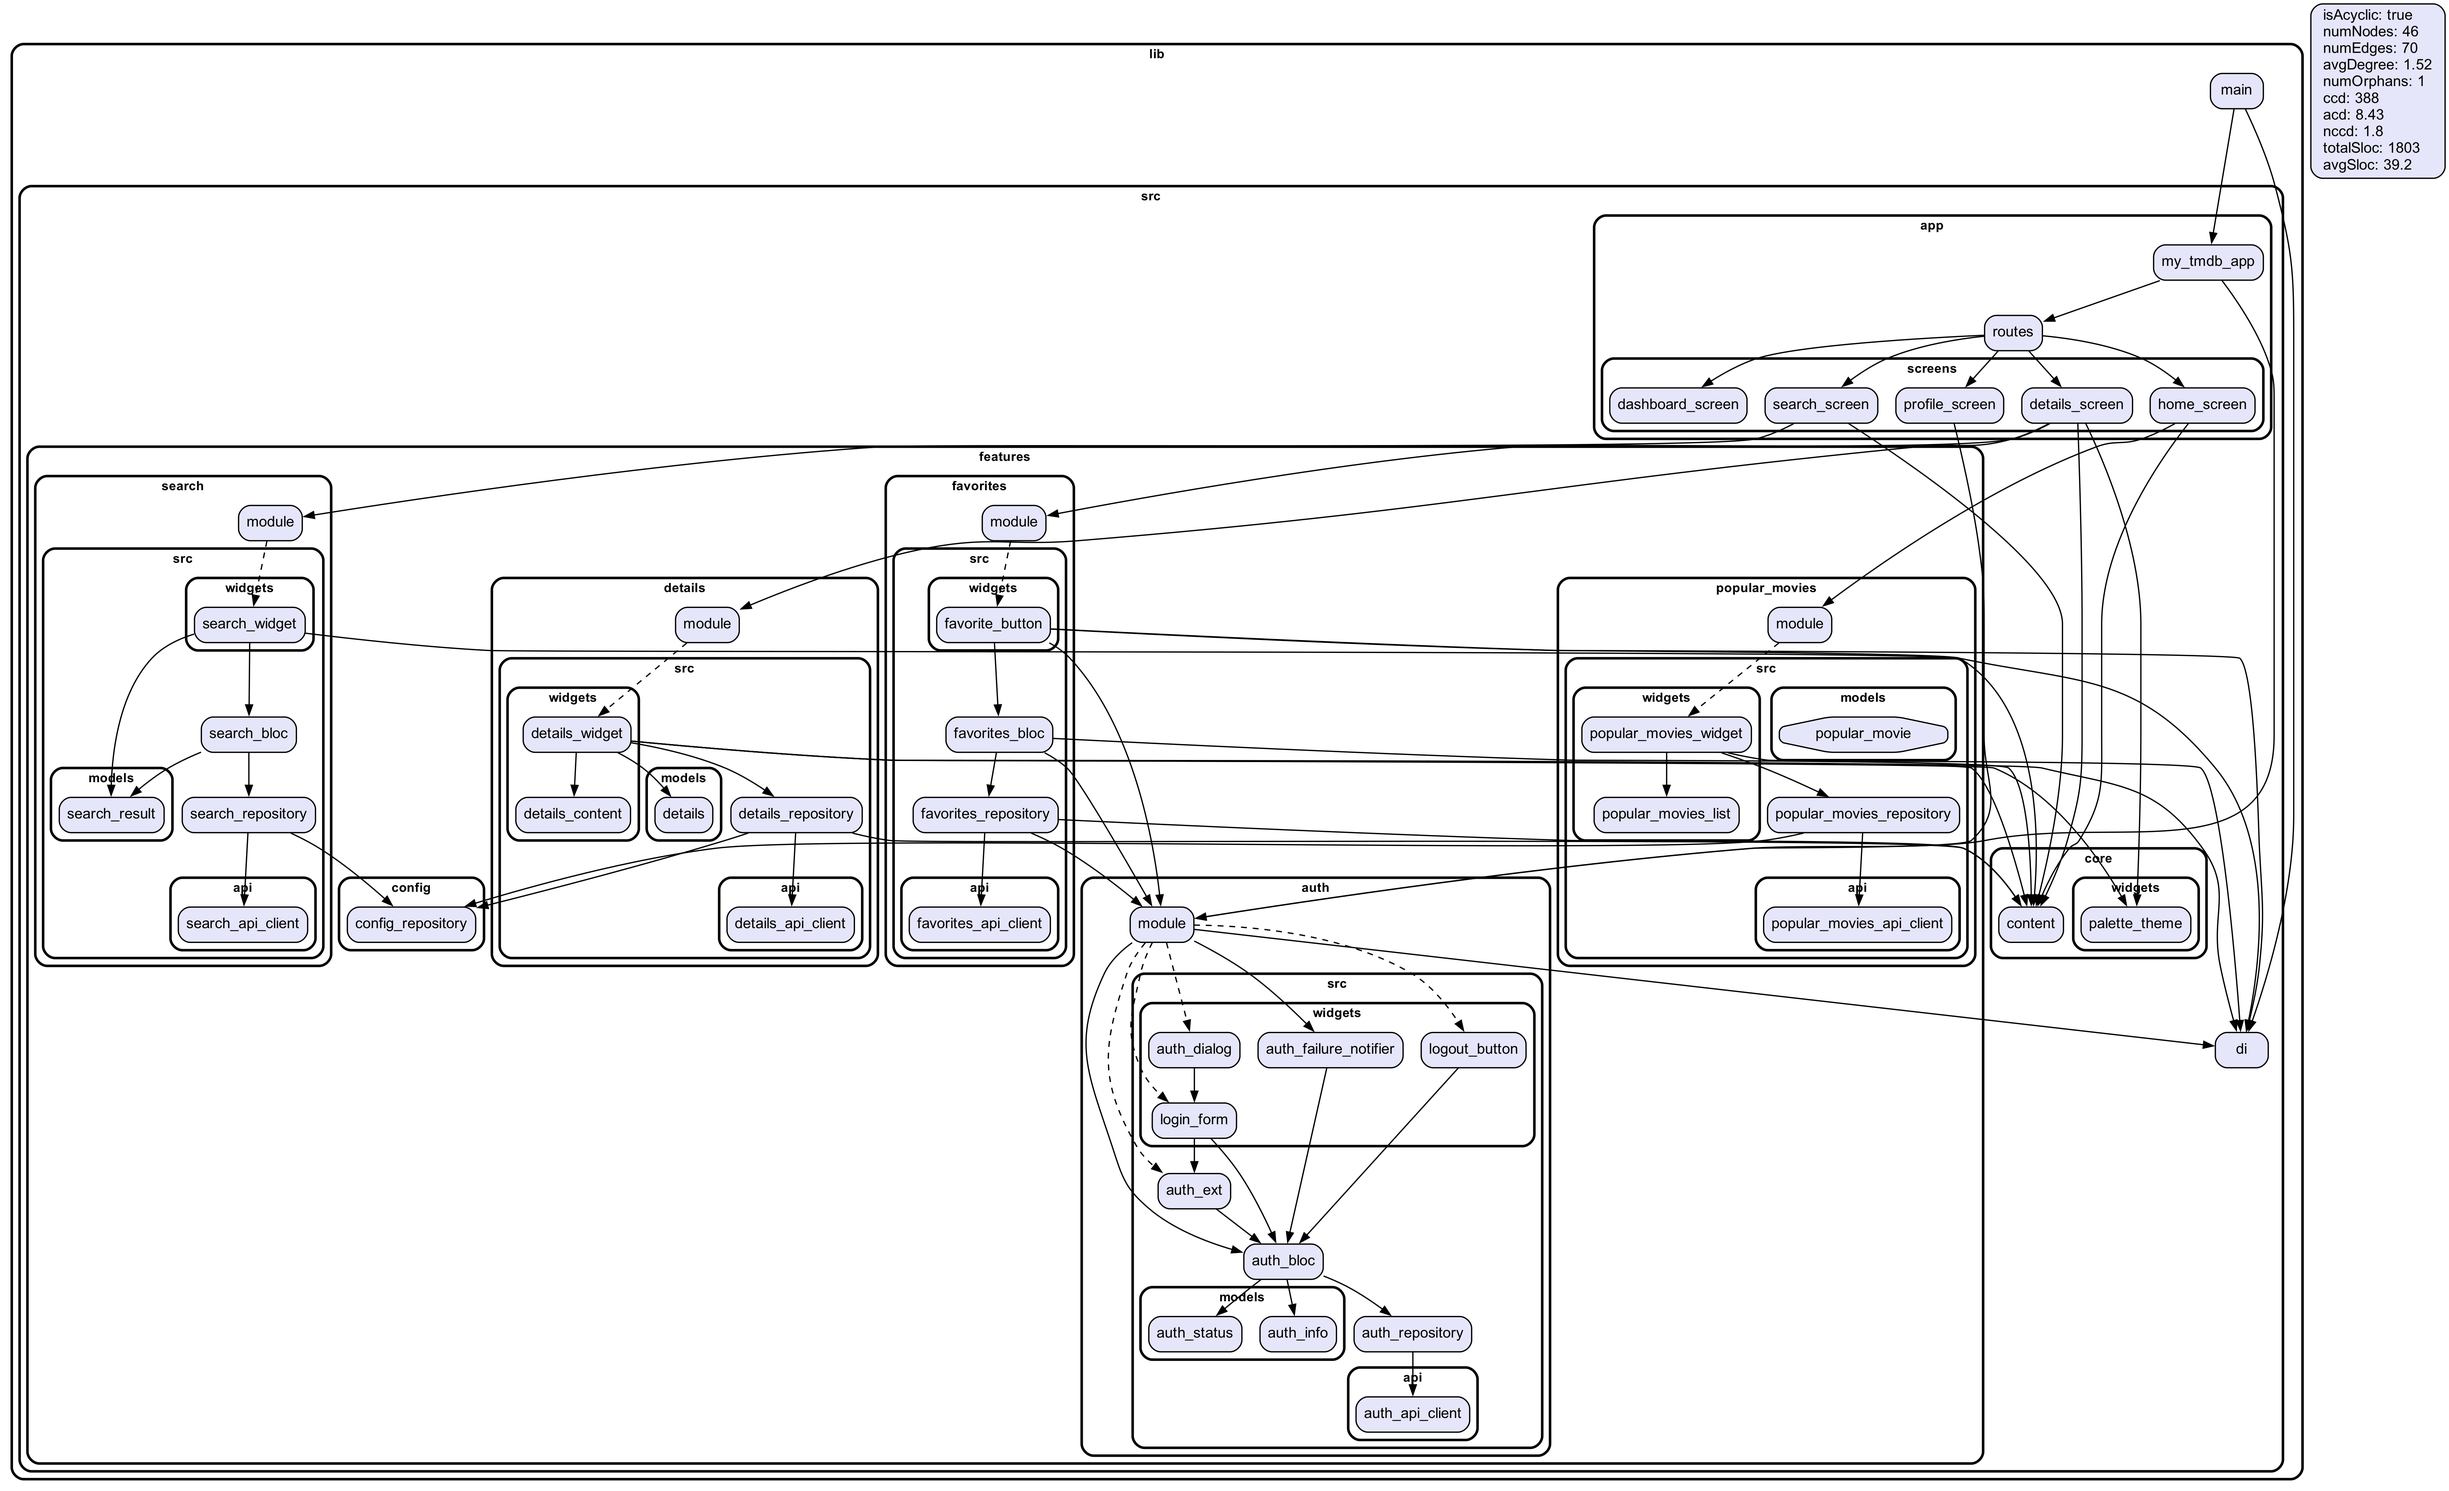
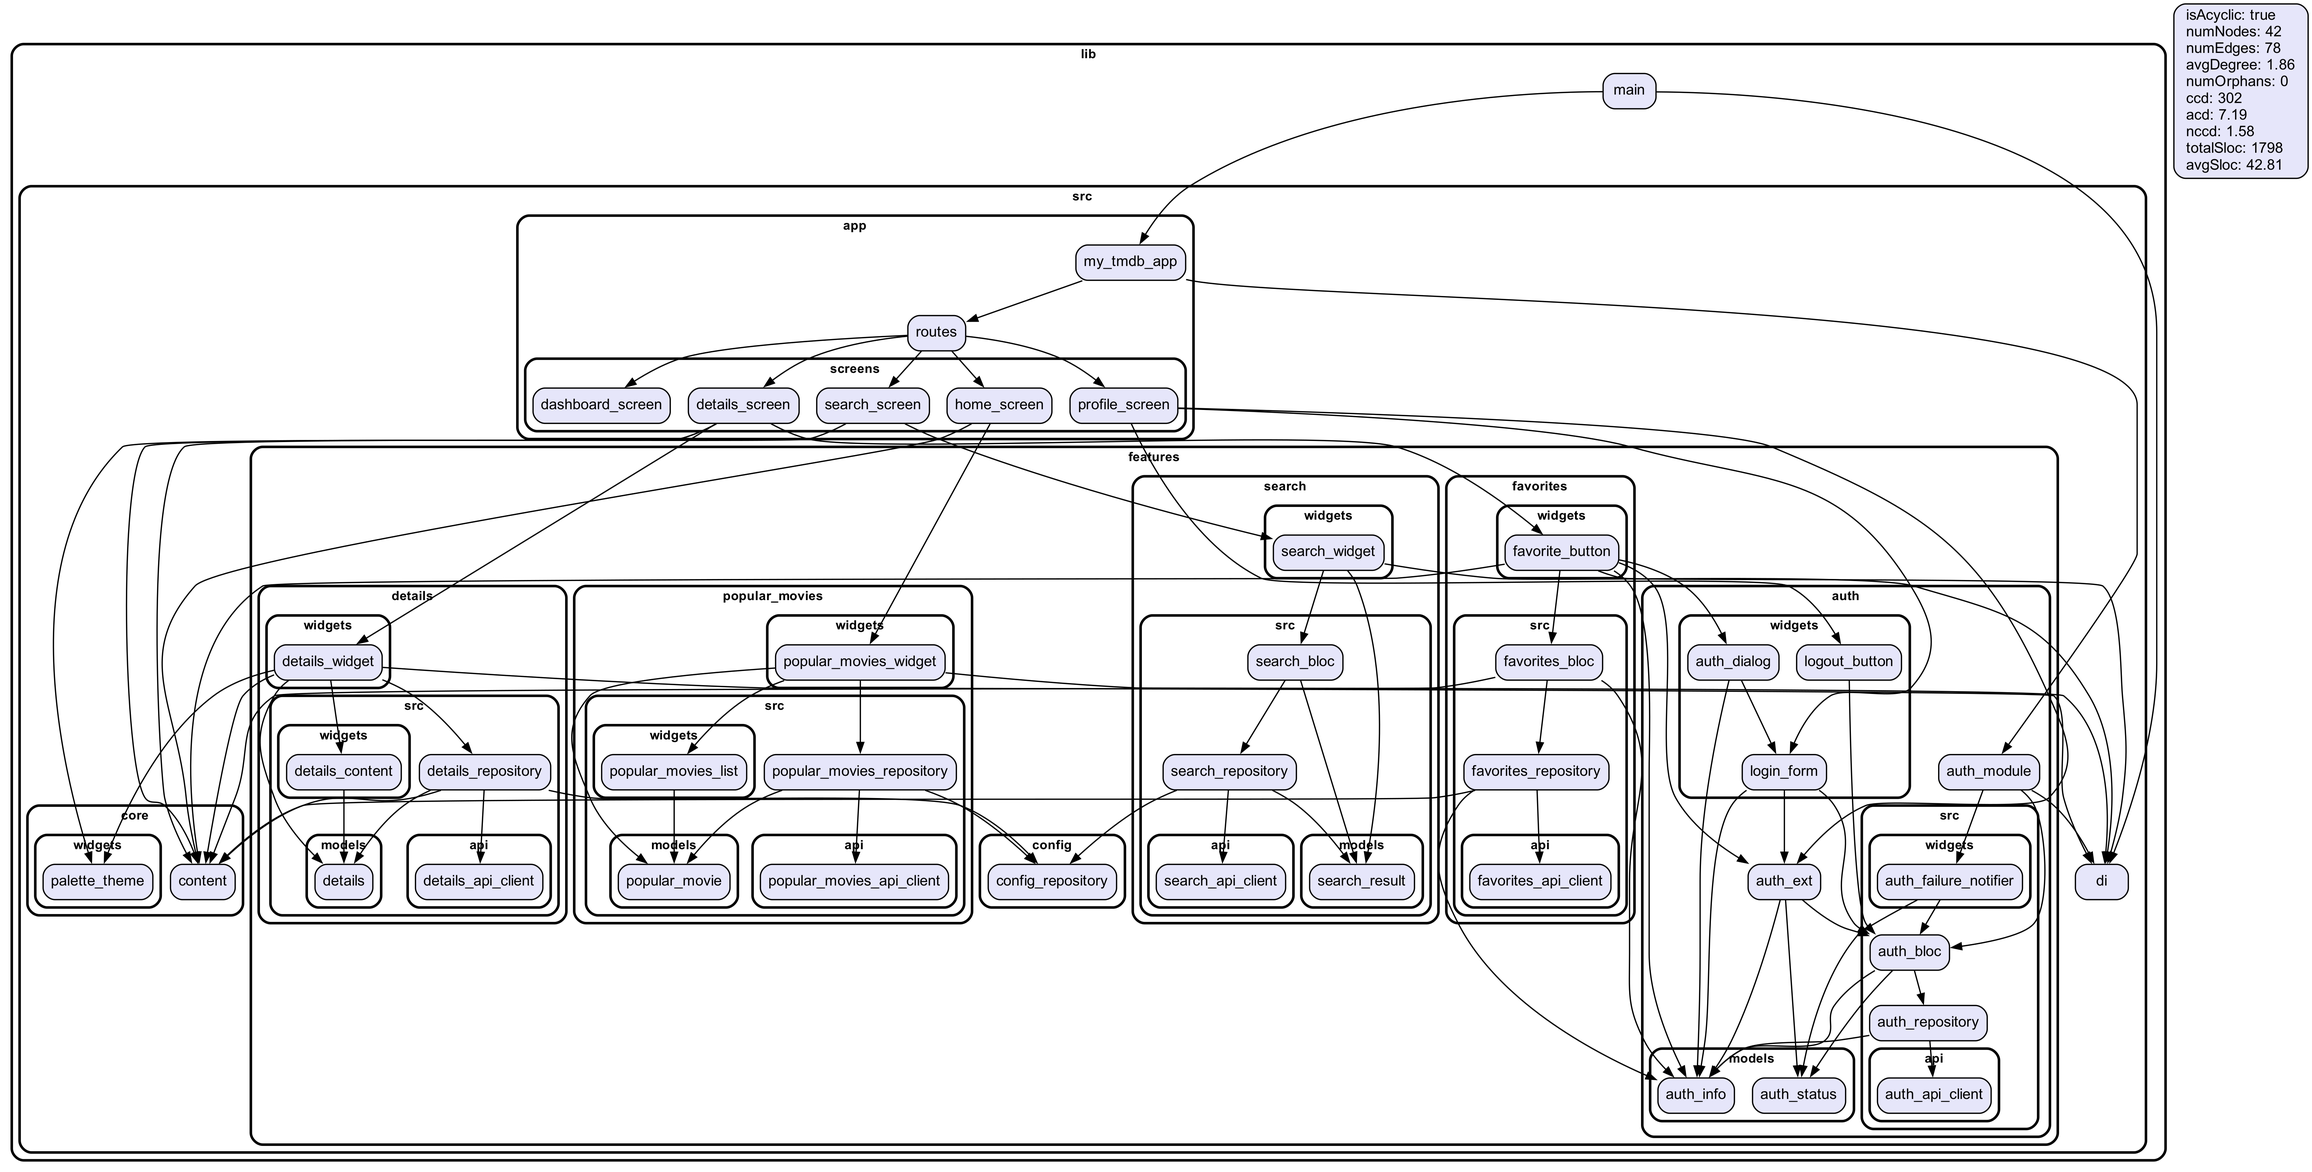
refactor: update structure

diff --git a/lib/src/features/details/widgets/details_widget.dart b/lib/src/features/details/widgets/details_widget.dart
@@ -2,12 +2,12 @@ import 'package:dfunc/dfunc.dart';
 import 'package:flutter/material.dart';
 import 'package:provider/provider.dart';
 
-import '../../../../core/content.dart';
-import '../../../../core/widgets/palette_theme.dart';
-import '../../../../di.dart';
-import '../details_repository.dart';
-import '../models/details.dart';
-import 'details_content.dart';
+import '../../../core/content.dart';
+import '../../../core/widgets/palette_theme.dart';
+import '../../../di.dart';
+import '../src/details_repository.dart';
+import '../src/models/details.dart';
+import '../src/widgets/details_content.dart';
 
 class DetailsWidget extends StatefulWidget {
   const DetailsWidget({

diff --git a/lib/src/features/favorites/widgets/favorite_button.dart b/lib/src/features/favorites/widgets/favorite_button.dart
@@ -1,10 +1,12 @@
 import 'package:flutter/material.dart';
 import 'package:flutter_bloc/flutter_bloc.dart';
 
-import '../../../../core/content.dart';
-import '../../../../di.dart';
-import '../../../auth/module.dart';
-import '../favorites_bloc.dart';
+import '../../../core/content.dart';
+import '../../../di.dart';
+import '../../auth/auth_ext.dart';
+import '../../auth/models/auth_info.dart';
+import '../../auth/widgets/auth_dialog.dart';
+import '../src/favorites_bloc.dart';
 
 class FavoriteButton extends StatelessWidget {
   const FavoriteButton({super.key, required this.contentId});

diff --git a/lib/src/features/popular_movies/widgets/popular_movies_widget.dart b/lib/src/features/popular_movies/widgets/popular_movies_widget.dart
@@ -2,10 +2,10 @@ import 'package:dfunc/dfunc.dart';
 import 'package:fast_immutable_collections/fast_immutable_collections.dart';
 import 'package:flutter/material.dart';
 
-import '../../../../di.dart';
-import '../models/popular_movie.dart';
-import '../popular_movies_repository.dart';
-import 'popular_movies_list.dart';
+import '../../../di.dart';
+import '../src/models/popular_movie.dart';
+import '../src/popular_movies_repository.dart';
+import '../src/widgets/popular_movies_list.dart';
 
 class PopularMoviesWidget extends StatefulWidget {
   const PopularMoviesWidget({

diff --git a/test/features/popular_movies/popular_movies_widget_test.dart b/test/features/popular_movies/popular_movies_widget_test.dart
@@ -8,7 +8,7 @@ import 'package:mockito/annotations.dart';
 import 'package:mockito/mockito.dart';
 import 'package:my_tmdb/src/features/popular_movies/src/models/popular_movie.dart';
 import 'package:my_tmdb/src/features/popular_movies/src/popular_movies_repository.dart';
-import 'package:my_tmdb/src/features/popular_movies/src/widgets/popular_movies_widget.dart';
+import 'package:my_tmdb/src/features/popular_movies/widgets/popular_movies_widget.dart';
 
 import '../../di.dart';
 import 'popular_movies_widget_test.mocks.dart';

diff --git a/test/features/favorites/favorites_bloc_test.dart b/test/features/favorites/favorites_bloc_test.dart
@@ -4,7 +4,7 @@ import 'package:flutter_test/flutter_test.dart';
 import 'package:mockito/annotations.dart';
 import 'package:mockito/mockito.dart';
 import 'package:my_tmdb/src/core/content.dart';
-import 'package:my_tmdb/src/features/auth/module.dart';
+import 'package:my_tmdb/src/features/auth/models/auth_info.dart';
 import 'package:my_tmdb/src/features/favorites/src/favorites_bloc.dart';
 import 'package:my_tmdb/src/features/favorites/src/favorites_repository.dart';
 

diff --git a/lib/src/features/search/widgets/search_widget.dart b/lib/src/features/search/widgets/search_widget.dart
@@ -4,9 +4,9 @@ import 'package:flutter/material.dart';
 import 'package:flutter_bloc/flutter_bloc.dart';
 import 'package:provider/provider.dart';
 
-import '../../../../di.dart';
-import '../models/search_result.dart';
-import '../search_bloc.dart';
+import '../../../di.dart';
+import '../src/models/search_result.dart';
+import '../src/search_bloc.dart';
 
 class SearchWidget extends StatefulWidget {
   const SearchWidget({super.key, required this.onItemPressed});

diff --git a/lib/src/app/screens/details_screen.dart b/lib/src/app/screens/details_screen.dart
@@ -2,8 +2,8 @@ import 'package:flutter/material.dart';
 
 import '../../core/content.dart';
 import '../../core/widgets/palette_theme.dart';
-import '../../features/details/module.dart';
-import '../../features/favorites/module.dart';
+import '../../features/details/widgets/details_widget.dart';
+import '../../features/favorites/widgets/favorite_button.dart';
 
 class DetailsScreen extends StatelessWidget {
   const DetailsScreen({

diff --git a/test/features/favorites/favorites_bloc_test.mocks.dart b/test/features/favorites/favorites_bloc_test.mocks.dart
@@ -8,7 +8,7 @@ import 'dart:async' as _i4;
 import 'package:dfunc/dfunc.dart' as _i2;
 import 'package:mockito/mockito.dart' as _i1;
 import 'package:my_tmdb/src/core/content.dart' as _i5;
-import 'package:my_tmdb/src/features/auth/module.dart' as _i6;
+import 'package:my_tmdb/src/features/auth/models/auth_info.dart' as _i6;
 import 'package:my_tmdb/src/features/favorites/src/favorites_repository.dart'
     as _i3;
 

diff --git a/lib/src/features/auth/auth_module.dart b/lib/src/features/auth/auth_module.dart
@@ -7,12 +7,6 @@ import '../../di.dart';
 import 'src/auth_bloc.dart';
 import 'src/widgets/auth_failure_notifier.dart';
 
-export 'src/auth_ext.dart';
-export 'src/models/auth_info.dart';
-export 'src/widgets/auth_dialog.dart';
-export 'src/widgets/login_form.dart';
-export 'src/widgets/logout_button.dart';
-
 class AuthModule extends SingleChildStatelessWidget {
   const AuthModule({super.key});
 

diff --git a/lib/src/features/auth/src/auth_bloc.dart b/lib/src/features/auth/src/auth_bloc.dart
@@ -4,9 +4,9 @@ import 'package:flutter_bloc/flutter_bloc.dart';
 import 'package:freezed_annotation/freezed_annotation.dart';
 import 'package:injectable/injectable.dart';
 
+import '../models/auth_info.dart';
+import '../models/auth_status.dart';
 import 'auth_repository.dart';
-import 'models/auth_info.dart';
-import 'models/auth_status.dart';
 
 part 'auth_bloc.freezed.dart';
 

diff --git a/lib/src/features/auth/src/widgets/auth_failure_notifier.dart b/lib/src/features/auth/src/widgets/auth_failure_notifier.dart
@@ -2,8 +2,8 @@ import 'package:flutter/material.dart';
 import 'package:flutter_bloc/flutter_bloc.dart';
 import 'package:provider/single_child_widget.dart';
 
+import '../../models/auth_status.dart';
 import '../auth_bloc.dart';
-import '../models/auth_status.dart';
 
 class AuthFailureNotifier extends SingleChildStatelessWidget {
   const AuthFailureNotifier({super.key});

diff --git a/lib/src/features/auth/auth_ext.dart b/lib/src/features/auth/auth_ext.dart
@@ -2,9 +2,9 @@ import 'package:dfunc/dfunc.dart';
 import 'package:flutter/widgets.dart';
 import 'package:provider/provider.dart';
 
-import 'auth_bloc.dart';
 import 'models/auth_info.dart';
 import 'models/auth_status.dart';
+import 'src/auth_bloc.dart';
 
 extension AuthExt on BuildContext {
   AuthInfo readAuthInfo() => read<AuthBloc>().state.info;
